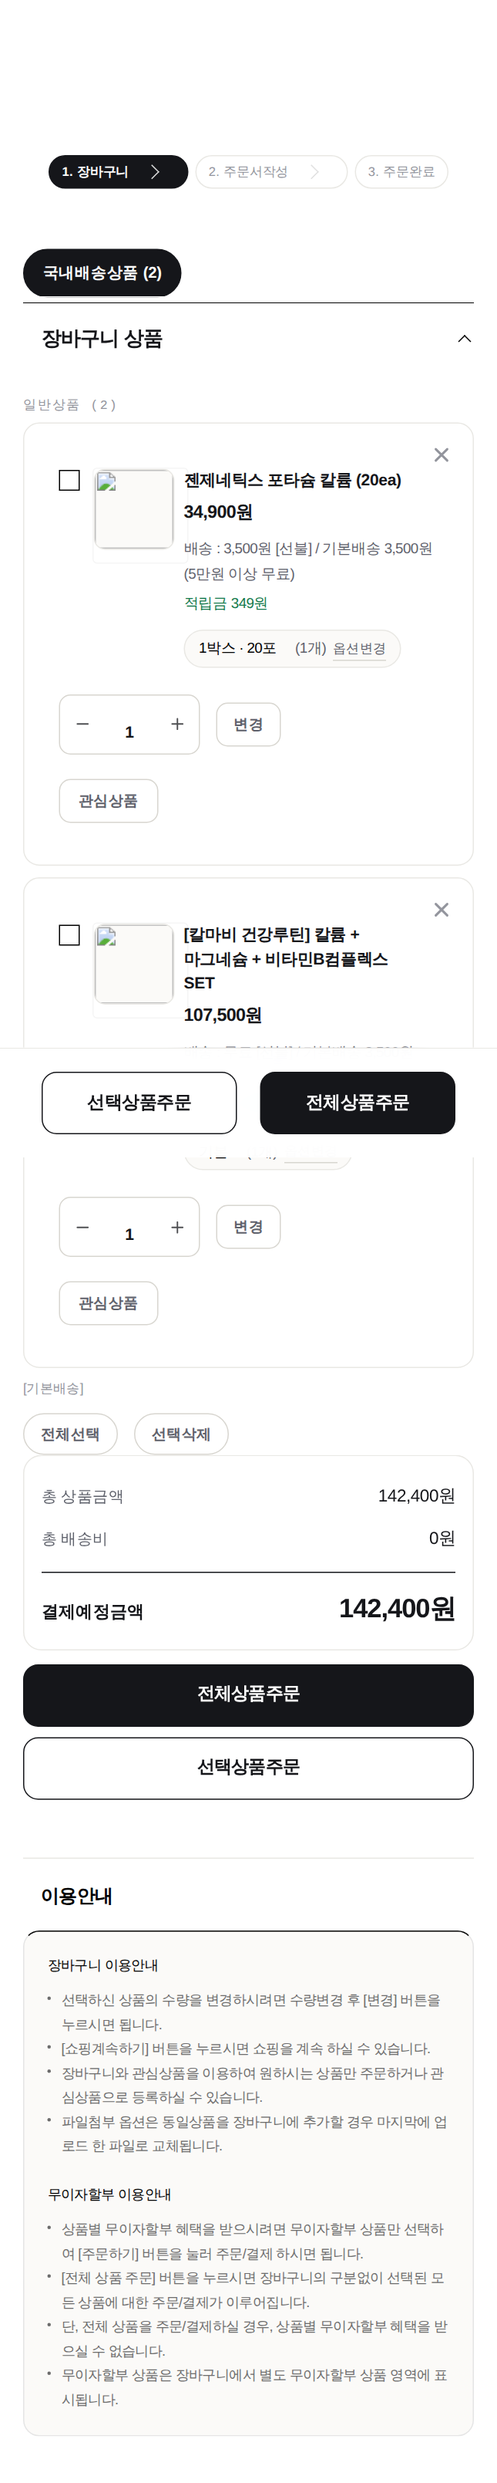
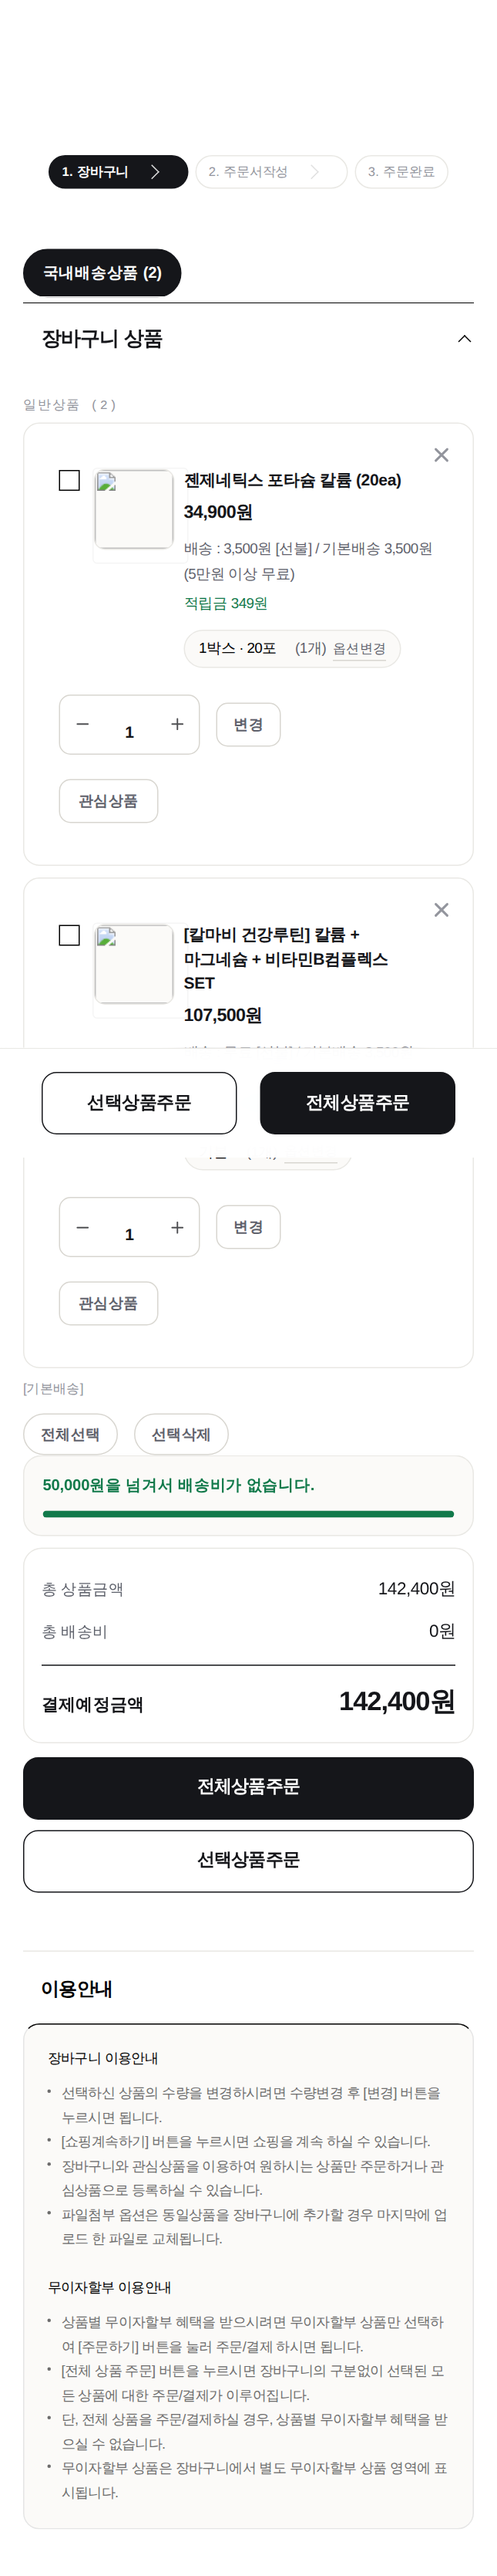
장바구니 B안 1단계: 무료배송 진행바
새 파일 ds/js/basket.js + basket.html 24행에 @js 한 줄.
HTML 마크업은 그대로 두고, 진행바 DOM 은 스크립트가 합계 카드 위에 끼워 넣는다.

숫자를 코드에 쓰지 않는다
- 무료배송 기준 금액은 화면에 이미 있는 카페24 문구에서 읽는다
  ("50,000원 이상" / "5만원 이상" 둘 다 인식)
- 총 상품금액은 합계 카드가 그린 값을 그대로 읽는다
- 둘 중 하나라도 못 읽으면 아무것도 그리지 않는다
- 수량 변경·선택 삭제로 합계가 다시 그려지면 MutationObserver 로 따라 갱신

동작 확인: 미달 "15,100원 더 담으시면 배송비가 없습니다"(오렌지 69.8%),
달성 "50,000원을 넘겨서 배송비가 없습니다"(초록 100%). JS 오류 0.

한계도 기록했다: 라이브 장바구니에 상품이 담긴 상태를 본 적이 없어
기준 문구 위치는 프리뷰 기준 추정이다. 문구가 없으면 진행바가 안 나올 뿐 깨지지는 않는다.

대표님 질문("2,3,4번 구매율 근거 있어?")에 대한 답도 WORKLOG 에 남겼다.
1번만 근거가 있고 2·3·4는 없다. 앞서 "1·2번이 매출에 직접 닿는다"고 한 건 과장이라 정정했다.
공홈에 GA4 두 개가 붙어 있으니 추측으로 UI를 늘리기 전에 실제 이탈률을 보는 편이 낫다.

Claude-Session: https://claude.ai/code/session_01Nachj2PTude5mosMPYmhfL

diff --git a/zengenetics/cafe24-skin/ds/js/basket.js b/zengenetics/cafe24-skin/ds/js/basket.js
@@ -1,0 +1,94 @@
+/* ============================================================
+   젠제네틱스 — 장바구니 무료배송 진행바
+   ------------------------------------------------------------
+   B안 1단계. HTML 템플릿은 건드리지 않는다.
+   basket.html 에 추가한 것은 <!--@js(/ds/js/basket.js)--> 한 줄뿐이고,
+   진행바 DOM 은 이 스크립트가 합계 카드 위에 끼워 넣는다.
+
+   원칙 (CLAUDE.md 영구규칙 11)
+     - 기준 금액(무료배송 조건)을 코드에 쓰지 않는다.
+       화면에 이미 있는 카페24 문구에서 읽는다. 못 읽으면 아무것도 그리지 않는다.
+     - 합계 금액도 카페24가 그린 값을 그대로 읽는다.
+   ============================================================ */
+(function () {
+    'use strict';
+
+    var BAR_ID = 'zgFreeShip';
+
+    function won(n) { return n.toLocaleString('ko-KR') + '원'; }
+
+    /* 화면 문구에서 무료배송 기준 금액을 찾는다.
+       "50,000원 이상 무료" / "5만원 이상 무료" 둘 다 받는다. */
+    function findThreshold(scope) {
+        var t = scope.innerText || '';
+        var m = t.match(/([0-9][0-9,]*)\s*만\s*원?\s*이상/);
+        if (m) return parseInt(m[1].replace(/,/g, ''), 10) * 10000;
+        m = t.match(/([0-9][0-9,]{3,})\s*원\s*이상/);
+        if (m) return parseInt(m[1].replace(/,/g, ''), 10);
+        return 0;
+    }
+
+    /* 총 상품금액 — 합계 카드의 첫 항목. 배송비를 뺀 금액으로 판단한다. */
+    function readGoods(scope) {
+        var el = scope.querySelector('.totalSummary__item .heading .data strong');
+        if (!el) return -1;
+        var n = (el.textContent || '').replace(/[^0-9]/g, '');
+        return n === '' ? -1 : parseInt(n, 10);
+    }
+
+    function build(scope) {
+        var box = document.createElement('div');
+        box.id = BAR_ID;
+        box.className = 'zg-freeship';
+        box.innerHTML =
+            '<div class="zg-freeship__t"></div>' +
+            '<div class="zg-freeship__bar"><i></i></div>';
+        var summary = scope.querySelector('.totalSummary');
+        if (summary && summary.parentNode) summary.parentNode.insertBefore(box, summary);
+        return box;
+    }
+
+    function paint(box, goods, limit) {
+        var t = box.querySelector('.zg-freeship__t');
+        var i = box.querySelector('.zg-freeship__bar i');
+        if (goods >= limit) {
+            box.classList.add('is-done');
+            t.textContent = won(limit) + '을 넘겨서 배송비가 없습니다.';
+            i.style.width = '100%';
+        } else {
+            box.classList.remove('is-done');
+            t.innerHTML = '<em>' + won(limit - goods) + '</em> 더 담으시면 배송비가 없습니다.';
+            i.style.width = Math.max(2, Math.min(100, goods / limit * 100)).toFixed(1) + '%';
+        }
+    }
+
+    function init() {
+        var scope = document.querySelector('.cart-container');
+        if (!scope) return;
+
+        var limit = findThreshold(scope);
+        if (!limit) return;               /* 기준 금액을 못 읽으면 그리지 않는다 */
+
+        var goods = readGoods(scope);
+        if (goods < 0) return;            /* 합계를 못 읽으면 그리지 않는다 */
+
+        var box = document.getElementById(BAR_ID) || build(scope);
+        paint(box, goods, limit);
+
+        /* 수량 변경·선택 삭제로 카페24가 합계를 다시 그리면 따라 갱신한다.
+           (상품상세의 무료배송 안내가 쓰는 것과 같은 방식) */
+        var target = scope.querySelector('.totalSummary__item .heading .data');
+        if (target && window.MutationObserver) {
+            new MutationObserver(function () {
+                var g = readGoods(scope);
+                if (g >= 0) paint(box, g, limit);
+            }).observe(target, { childList: true, subtree: true, characterData: true });
+        }
+    }
+
+    if (document.readyState === 'loading') {
+        document.addEventListener('DOMContentLoaded', init);
+    } else {
+        init();
+    }
+})();

diff --git a/zengenetics/cafe24-skin/ds/css/basket.css b/zengenetics/cafe24-skin/ds/css/basket.css
@@ -259,3 +259,16 @@
   .cart-total .totalSummary .paymentPrice{font-size:23px}
   .ec-base-step .step li{font-size:11px;padding:6px 11px}
 }
+
+/* ── 무료배송 진행바 (ds/js/basket.js 가 합계 카드 위에 끼워 넣는다) ── */
+.zg-freeship{
+  border:1px solid var(--zg-hair);border-radius:16px;background:var(--zg-bg-2);
+  padding:15px 16px;margin:0 0 10px}
+.zg-freeship__t{font-size:13.5px;font-weight:600;letter-spacing:-.01em;color:var(--zg-ink);
+  line-height:1.55;word-break:keep-all}
+.zg-freeship__t em{font-style:normal;color:var(--zg-acc)}
+.zg-freeship__bar{margin-top:11px;height:6px;border-radius:99px;background:var(--zg-hair);overflow:hidden}
+.zg-freeship__bar i{display:block;height:100%;width:0;border-radius:99px;
+  background:var(--zg-acc);transition:width .3s ease}
+.zg-freeship.is-done .zg-freeship__t{color:var(--zg-ok)}
+.zg-freeship.is-done .zg-freeship__bar i{background:var(--zg-ok)}

diff --git a/zengenetics/cafe24-skin/_preview/basket/after.html b/zengenetics/cafe24-skin/_preview/basket/after.html
@@ -18,6 +18,7 @@
 <link rel="stylesheet" href="../../moa/css/layout.css">
 <link rel="stylesheet" href="../../css/module/order/basketPackage.css">
 <link rel="stylesheet" href="../../ds/css/basket.css">
+<script defer src="../../ds/js/basket.js"></script>
 <style>body{margin:0;background:#fff}#contents{max-width:1120px;margin:0 auto;padding:20px}.displaynone{display:none!important}</style></head><body><div id="contents">
 <div class="section path">
     <span>현재 위치</span>
@@ -40,6 +41,8 @@
     
     
     
+       
+        
 
     <div module="Order_TabInfo" class="ec-base-tab  typeNav">
         <ul class="menu">

diff --git a/zengenetics/cafe24-skin/order/basket.html b/zengenetics/cafe24-skin/order/basket.html
@@ -21,6 +21,7 @@
     <!--@css(/css/module/order/basketPackage.css)-->
     <!--@js(/js/module/order/basket.js)-->
     <!--@css(/ds/css/basket.css)-->   <!-- 젠제네틱스: 장바구니 겉모습 (A안). 이 한 줄만 추가했다 -->
+    <!--@js(/ds/js/basket.js)-->    <!-- 젠제네틱스: 무료배송 진행바 (B안 1). DOM 은 이 스크립트가 끼워 넣는다 -->
 
     <div module="Order_TabInfo" class="ec-base-tab {$tab_info_display|display} typeNav">
         <ul class="menu">

diff --git a/zengenetics/cafe24-skin/_preview/basket/before.html b/zengenetics/cafe24-skin/_preview/basket/before.html
@@ -39,6 +39,8 @@
     
     
     
+       
+        
 
     <div module="Order_TabInfo" class="ec-base-tab  typeNav">
         <ul class="menu">

diff --git a/zengenetics/cafe24-skin/_preview/basket/_mock.py b/zengenetics/cafe24-skin/_preview/basket/_mock.py
@@ -140,7 +140,9 @@ CSS = ['layout/basic/css/common.css','layout/basic/css/layout.css','layout/basic
 
 def page(extra_css):
     links = '\n'.join('<link rel="stylesheet" href="../../%s">'%c for c in CSS)
-    if extra_css: links += '\n<link rel="stylesheet" href="../../%s">'%extra_css
+    if extra_css:
+        links += '\n<link rel="stylesheet" href="../../%s">'%extra_css
+        links += '\n<script defer src="../../ds/js/basket.js"></script>'
     return ('<!doctype html><html lang="ko"><head><meta charset="utf-8">'
             '<meta name="viewport" content="width=device-width,initial-scale=1">'
             '<title>장바구니 프리뷰</title>\n' + links +

diff --git a/zengenetics/team/WORKLOG.md b/zengenetics/team/WORKLOG.md
@@ -142,8 +142,29 @@
 **주의**: `basketPackage.css` 규칙 대부분이 `.xans-order-basketpackage` 아래에 있다.
 이 클래스는 cafe24 렌더 시 붙어서 프리뷰에는 없다 → 라이브 적용 전 우선순위 재확인 필요.
 
-**다음: B안** (구조) — 무료배송 진행바 / 상품 행에 루틴·구성 정보 / 빈 장바구니 화면 /
-배송유형 반복 영역 실제 사용 조합 확인.
+### B안 1단계 — 무료배송 진행바 (완료)
+
+새 파일 `ds/js/basket.js` + `basket.html` 24행에 `<!--@js(...)-->` 한 줄.
+**HTML 마크업은 그대로** — 진행바 DOM 은 스크립트가 합계 카드 위에 끼워 넣는다.
+- 기준 금액과 합계를 **화면에 이미 있는 카페24 값에서 읽는다.** 코드에 숫자를 쓰지 않는다
+- 둘 중 하나라도 못 읽으면 아무것도 그리지 않는다 (틀린 숫자보다 안 보이는 쪽)
+- 합계가 다시 그려지면 `MutationObserver` 로 따라 갱신
+- ⚠ 라이브 장바구니에 상품이 담긴 상태를 본 적이 없다. 기준 문구 위치는 프리뷰 기준 추정
+
+### 대표님 질문 — "2,3,4번은 구매율이 올라가? 근거 있어?" (2026-09-06)
+
+**정직한 답: 1번만 근거가 있다.** 앞서 "1·2번이 매출에 직접 닿는다"고 한 건 과장이었고 정정했다.
+
+| | 근거 | 판단 |
+|---|---|---|
+| 1 무료배송 진행바 | **있음** — 장바구니 이탈 사유 1위가 매번 "추가 비용(배송비)". 진행바는 그걸 객단가로 바꾸는 검증된 패턴 | 진행 |
+| 2 빈 장바구니 CTA | 없음 | 대상 자체가 적다. 효과는 추측 |
+| 3 상품 행 루틴 정보 | 없음 | 취향. 오히려 산만해질 수 있음 |
+| 4 배송유형 정리 | 없음 · 구매율과 무관 | 코드 정리·사고 예방용 |
+
+- 위 조사도 업계 평균이지 **젠제네틱스 숫자가 아니다.**
+- 공홈에 **GA4 두 개**(`G-84HNK1MRBG`, `G-GZHFY596SS`)가 붙어 있다. 장바구니→주문서 이탈률이
+  이미 쌓여 있을 가능성이 크다. **추측으로 UI를 늘리기 전에 그 숫자를 먼저 보는 게 맞다.**
 
 ## B-11. 데이팩 3종 + 생애 첫 구매 EVENT (2026-09-06)
 

diff --git a/zengenetics/cafe24-skin/_preview/basket/README.md b/zengenetics/cafe24-skin/_preview/basket/README.md
@@ -57,10 +57,31 @@
    cafe24 가 렌더할 때 붙이므로 **프리뷰에는 없다.** 라이브에서는 그 규칙과 우선순위가 겹칠 수 있어
    실제 적용 전에 한 번 더 확인이 필요하다.
 
-## 다음 (B안)
+## B안 1단계 — 무료배송 진행바 (완료)
 
-구조까지 손대는 단계. 아직 안 했다.
-- 무료배송까지 남은 금액 진행바
+새 파일 **`ds/js/basket.js`** + `basket.html` 24행에 `<!--@js(/ds/js/basket.js)-->` 한 줄.
+**HTML 마크업은 그대로**다 — 진행바 DOM 은 스크립트가 합계 카드 위에 끼워 넣는다.
+
+| 상태 | 화면 |
+|---|---|
+| 미달 | `15,100원 더 담으시면 배송비가 없습니다.` + 오렌지 진행바 |
+| 달성 | `50,000원을 넘겨서 배송비가 없습니다.` + 초록 100% |
+
+**숫자를 코드에 쓰지 않는다.**
+- 무료배송 기준 금액 → 화면에 이미 있는 카페24 문구에서 읽는다 (`50,000원 이상` · `5만원 이상` 둘 다 인식)
+- 총 상품금액 → 합계 카드가 그린 값을 그대로 읽는다
+- 둘 중 하나라도 못 읽으면 **아무것도 그리지 않는다** (틀린 숫자를 보여주느니 안 보여준다)
+- 수량 변경·선택 삭제로 합계가 다시 그려지면 `MutationObserver` 로 따라 갱신한다
+
+⚠ **아직 확인 못 한 것**: 라이브 장바구니에 상품이 담긴 상태를 본 적이 없다(빈 장바구니만 확인 가능).
+기준 금액 문구가 실제 장바구니 화면 어디에 나오는지는 프리뷰 기준으로만 맞춰 뒀다.
+문구가 없으면 진행바는 그냥 안 나온다 — 화면이 깨지지는 않는다.
+
+`freeship_short.png` 가 미달 상태 캡처다.
+
+## 다음 (B안 나머지)
+
+아직 안 했다. **셋 다 구매율 근거는 없다** (대표님 질문에 대한 정직한 답).
 - 상품 행에 상품페이지와 같은 루틴/구성 정보 노출
 - 국내/해외 탭 정리, 빈 장바구니 화면 문구·CTA
 - 7개 배송유형 반복 영역을 실제로 어떤 조합까지 쓰는지 확인 후 정리
